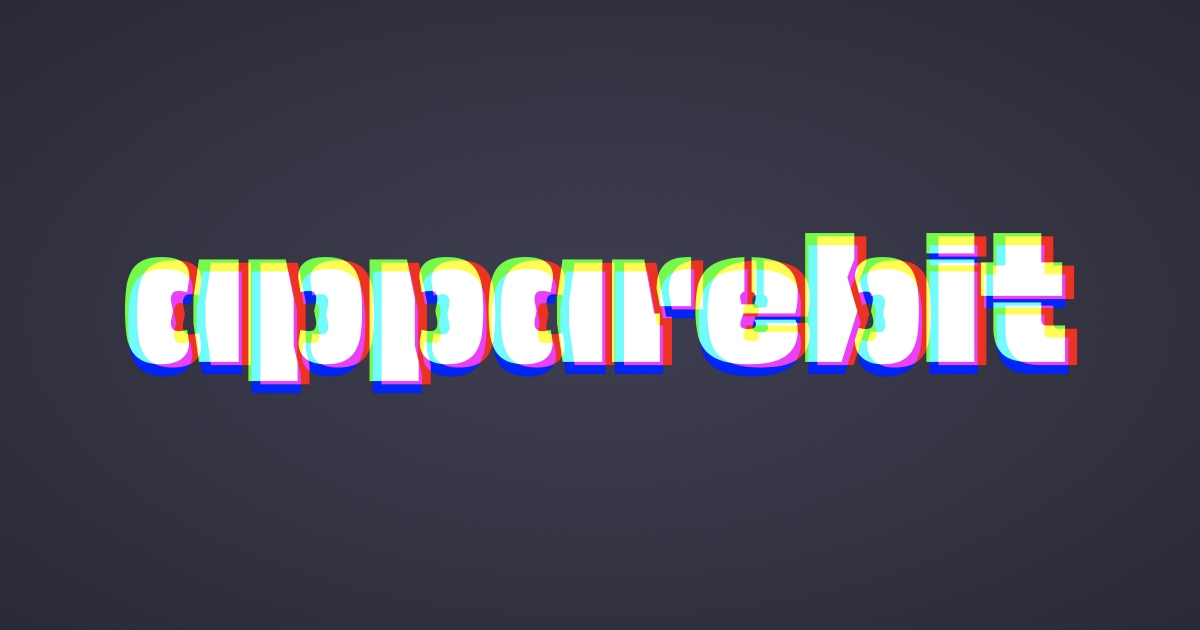
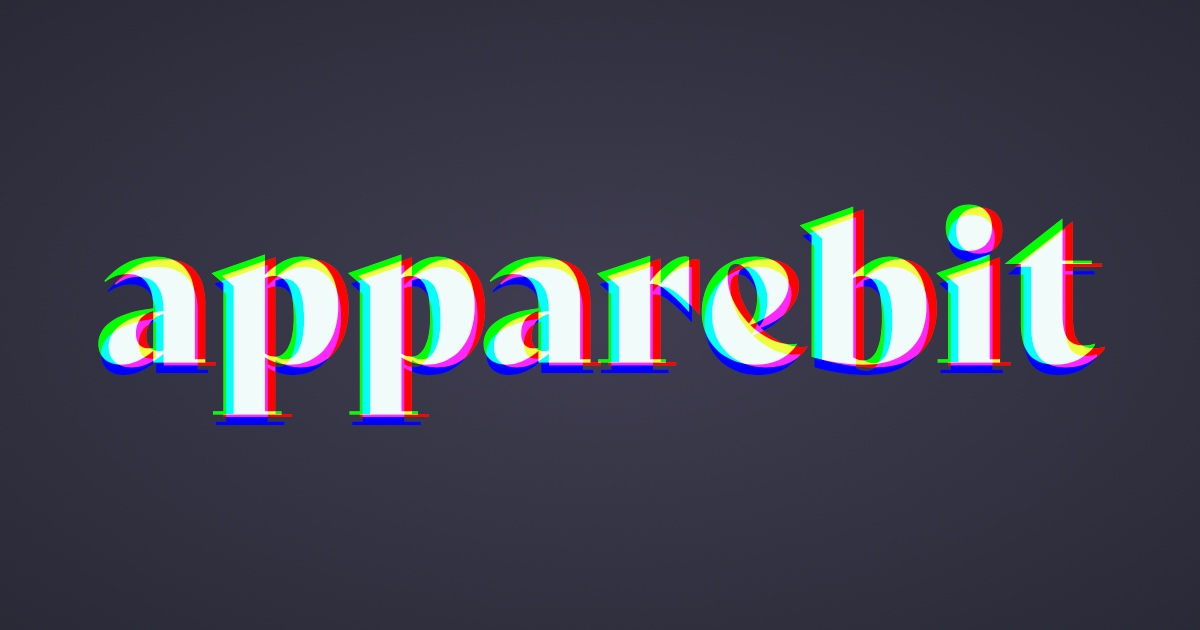
Simplify visual appearance, add "Technology Today" talk
* Replace the 'a' logo using Super Fat Bob with Bely Display.
* Similarly, replace the generic social network image's use of Super Fat Bob with Bely Display.
* Add Rebase/SPLASH 2020 talk on the technology industry as featured content.

Changed region(s): [[0.0617, 0.3016, 0.925, 0.6937]]

diff --git a/content/index.html b/content/index.html
@@ -55,13 +55,14 @@ main > section:first-of-type > div:first-of-type { margin-bottom: var(--s10); }
 .hello, .hello2 { font-family: var(--bely-display-fontstack); }
 .hello { font-size: var(--s20); line-height: 1; }
 .hello2 { font-size: var(--s05); line-height: calc(var(--r-minor)  * 1rem); }
-.card:nth-of-type(1) > .image > img {
+
+.card:nth-of-type(2) > .image > img {
   object-position: 50% 100%;
 }
-.card:nth-of-type(2) > .image > img {
+.card:nth-of-type(3) > .image > img {
   object-position: 75% 0%;
 }
-.card:nth-of-type(2) > h3 > a > span {
+.card:nth-of-type(3) > h3 > a > span {
   transform: rotate(-14deg) translateY(-0.4em) translateX(-0.4em);
 }
 </style>
@@ -71,7 +72,7 @@ main > section:first-of-type > div:first-of-type { margin-bottom: var(--s10); }
 <nav class="page-header barred">
 <div>
 <a rel=home class=stylish href="/">
-<svg aria-hidden=true viewBox="18 22 60 57" width="25.2" height="25.2"><path d="M51 60c-8 2-10-1-9-5l1-5-1-4c-1-5 1-8 9-6l1-6c1-10-8-12-14-12h-1c-16 0-19 10-19 28s3 29 19 29h1c7 0 15-4 14-13l-1-6zm3-3l3 20h21V23H57l-3 20v14z"/></svg>
+<svg aria-hidden="true" viewBox="0 0 100 100"><path d="M88.1 93.6V41.8c0-27-12.5-40.5-36-40.5C33.4 1.3 19.5 8.9 6.8 23l1 1A31 31 0 0128.2 17c14.2 0 22.4 10.3 22.4 30.8-31 3.4-49.3 14.8-49.3 32 0 11.8 8.2 18.7 20.4 18.7 10.2 0 20.2-5 29-12.5v10.6h46.7v-3H88zM46.4 84c-7.4 0-11.2-4.7-11.2-13.4 0-10 4.3-17 15.5-20.2v33c-1.6.4-3.1.6-4.3.6z"/></svg>
 <span class=invisible>Home</span>
 </a>
 </div>
@@ -96,10 +97,10 @@ main > section:first-of-type > div:first-of-type { margin-bottom: var(--s10); }
 </figure>
 
 <p>Welcome to <a class="u-url u-uid" href="https://apparebit.com">Apparebit</a>!
-I am <span class=p-name>Robert Grimm</span>, a <span class=p-job-title>software
-engineer</span> currently looking for a new position and living in <span
-class=p-locality>Brooklyn</span>, <abbr class=p-region>NY</abbr>. This is my
-personal website.</p>
+I am <span class=p-name>Robert Grimm</span>. I live in <span
+class=p-locality>Brooklyn</span>, <abbr class=p-region>NY</abbr> and work as a
+<span class=p-job-title>software engineer</span> at <a class="p-org"
+href="https://valon.com">Valon</a>. This is my personal website.</p>
 
 <p>Given a professional career spanning both academic computer science and
 industrial software engineering, technology is an important topic here. Having
@@ -134,16 +135,30 @@ class=hello2>Hello</span></a>, too!</p>
     {
       "@type": "ListItem",
       "position": 1,
-      "url": "https://apparebit.com/features/do-you-be"
+      "url": "https://youtu.be/iYJQSfQGDEE"
     },
     {
       "@type": "ListItem",
       "position": 2,
+      "url": "https://apparebit.com/features/do-you-be"
+    },
+    {
+      "@type": "ListItem",
+      "position": 3,
       "url": "https://apparebit.com/features/ubu-trump"
     }
   ]
 }
 </script>
+
+<!-- ~~~~~~~~~~~~~~~~~~~~~~~~~~~ Technology Today ~~~~~~~~~~~~~~~~~~~~~~~~~~ -->
+<li class=card>
+<h3><a class=stylish href="https://youtu.be/iYJQSfQGDEE"></a></h3>
+<div class=image>
+  <img src="assets/images/technology-today.svg" alt="Technology Today: A Paucity of Integrity and Imagination — an apocalypse by Robert Grimm presented at Rebase/SPLASH 2020">
+</div>
+<p class=description>The globally toxic impact of Mark Zuckerberg</p>
+</li>
 
 <!-- ~~~~~~~~~~~~~~~~~~~~~~~~~~~~~~ Do You Be ~~~~~~~~~~~~~~~~~~~~~~~~~~~~~~ -->
 <li class=card>

diff --git a/content/features/do-you-be/index.html b/content/features/do-you-be/index.html
@@ -125,7 +125,7 @@ nav {
 <nav class="page-header cornered">
 <div>
 <a rel=home class=stylish href="/">
-<svg aria-hidden=true viewBox="18 22 60 57" width="25.2" height="25.2"><path d="M51 60c-8 2-10-1-9-5l1-5-1-4c-1-5 1-8 9-6l1-6c1-10-8-12-14-12h-1c-16 0-19 10-19 28s3 29 19 29h1c7 0 15-4 14-13l-1-6zm3-3l3 20h21V23H57l-3 20v14z"/></svg>
+<svg aria-hidden="true" viewBox="0 0 100 100"><path d="M88.1 93.6V41.8c0-27-12.5-40.5-36-40.5C33.4 1.3 19.5 8.9 6.8 23l1 1A31 31 0 0128.2 17c14.2 0 22.4 10.3 22.4 30.8-31 3.4-49.3 14.8-49.3 32 0 11.8 8.2 18.7 20.4 18.7 10.2 0 20.2-5 29-12.5v10.6h46.7v-3H88zM46.4 84c-7.4 0-11.2-4.7-11.2-13.4 0-10 4.3-17 15.5-20.2v33c-1.6.4-3.1.6-4.3.6z"/></svg>
 <span class=invisible>Home</span>
 </a>
 </div>

diff --git a/content/features/ubu-trump/index.html b/content/features/ubu-trump/index.html
@@ -116,7 +116,7 @@ nav {
 <nav class="page-header cornered">
 <div>
 <a rel=home class=stylish href="/">
-<svg aria-hidden=true viewBox="18 22 60 57" width="25.2" height="25.2"><path d="M51 60c-8 2-10-1-9-5l1-5-1-4c-1-5 1-8 9-6l1-6c1-10-8-12-14-12h-1c-16 0-19 10-19 28s3 29 19 29h1c7 0 15-4 14-13l-1-6zm3-3l3 20h21V23H57l-3 20v14z"/></svg>
+<svg aria-hidden="true" viewBox="0 0 100 100"><path d="M88.1 93.6V41.8c0-27-12.5-40.5-36-40.5C33.4 1.3 19.5 8.9 6.8 23l1 1A31 31 0 0128.2 17c14.2 0 22.4 10.3 22.4 30.8-31 3.4-49.3 14.8-49.3 32 0 11.8 8.2 18.7 20.4 18.7 10.2 0 20.2-5 29-12.5v10.6h46.7v-3H88zM46.4 84c-7.4 0-11.2-4.7-11.2-13.4 0-10 4.3-17 15.5-20.2v33c-1.6.4-3.1.6-4.3.6z"/></svg>
 <span class=invisible>Home</span>
 </a>
 </div>

diff --git a/content/403.html b/content/403.html
@@ -40,7 +40,7 @@
 <nav class="page-header barred">
 <div>
 <a rel=home class=stylish href="/">
-<svg aria-hidden=true viewBox="18 22 60 57" width="25.2" height="25.2"><path d="M51 60c-8 2-10-1-9-5l1-5-1-4c-1-5 1-8 9-6l1-6c1-10-8-12-14-12h-1c-16 0-19 10-19 28s3 29 19 29h1c7 0 15-4 14-13l-1-6zm3-3l3 20h21V23H57l-3 20v14z"/></svg>
+<svg aria-hidden="true" viewBox="0 0 100 100"><path d="M88.1 93.6V41.8c0-27-12.5-40.5-36-40.5C33.4 1.3 19.5 8.9 6.8 23l1 1A31 31 0 0128.2 17c14.2 0 22.4 10.3 22.4 30.8-31 3.4-49.3 14.8-49.3 32 0 11.8 8.2 18.7 20.4 18.7 10.2 0 20.2-5 29-12.5v10.6h46.7v-3H88zM46.4 84c-7.4 0-11.2-4.7-11.2-13.4 0-10 4.3-17 15.5-20.2v33c-1.6.4-3.1.6-4.3.6z"/></svg>
 <span class=invisible>Home</span>
 </a>
 </div>

diff --git a/content/404.html b/content/404.html
@@ -40,7 +40,7 @@
 <nav class="page-header barred">
 <div>
 <a rel=home class=stylish href="/">
-<svg aria-hidden=true viewBox="18 22 60 57" width="25.2" height="25.2"><path d="M51 60c-8 2-10-1-9-5l1-5-1-4c-1-5 1-8 9-6l1-6c1-10-8-12-14-12h-1c-16 0-19 10-19 28s3 29 19 29h1c7 0 15-4 14-13l-1-6zm3-3l3 20h21V23H57l-3 20v14z"/></svg>
+<svg aria-hidden="true" viewBox="0 0 100 100"><path d="M88.1 93.6V41.8c0-27-12.5-40.5-36-40.5C33.4 1.3 19.5 8.9 6.8 23l1 1A31 31 0 0128.2 17c14.2 0 22.4 10.3 22.4 30.8-31 3.4-49.3 14.8-49.3 32 0 11.8 8.2 18.7 20.4 18.7 10.2 0 20.2-5 29-12.5v10.6h46.7v-3H88zM46.4 84c-7.4 0-11.2-4.7-11.2-13.4 0-10 4.3-17 15.5-20.2v33c-1.6.4-3.1.6-4.3.6z"/></svg>
 <span class=invisible>Home</span>
 </a>
 </div>

diff --git a/content/about/apparebit.html b/content/about/apparebit.html
@@ -39,7 +39,7 @@
 <nav class="page-header barred">
 <div>
 <a rel=home class=stylish href="/">
-<svg aria-hidden=true viewBox="18 22 60 57" width="25.2" height="25.2"><path d="M51 60c-8 2-10-1-9-5l1-5-1-4c-1-5 1-8 9-6l1-6c1-10-8-12-14-12h-1c-16 0-19 10-19 28s3 29 19 29h1c7 0 15-4 14-13l-1-6zm3-3l3 20h21V23H57l-3 20v14z"/></svg>
+<svg aria-hidden="true" viewBox="0 0 100 100"><path d="M88.1 93.6V41.8c0-27-12.5-40.5-36-40.5C33.4 1.3 19.5 8.9 6.8 23l1 1A31 31 0 0128.2 17c14.2 0 22.4 10.3 22.4 30.8-31 3.4-49.3 14.8-49.3 32 0 11.8 8.2 18.7 20.4 18.7 10.2 0 20.2-5 29-12.5v10.6h46.7v-3H88zM46.4 84c-7.4 0-11.2-4.7-11.2-13.4 0-10 4.3-17 15.5-20.2v33c-1.6.4-3.1.6-4.3.6z"/></svg>
 <span class=invisible>Home</span>
 </a>
 </div>

diff --git a/content/about/privacy.html b/content/about/privacy.html
@@ -39,7 +39,7 @@
 <nav class="page-header barred">
 <div>
 <a rel=home class=stylish href="/">
-<svg aria-hidden=true viewBox="18 22 60 57" width="25.2" height="25.2"><path d="M51 60c-8 2-10-1-9-5l1-5-1-4c-1-5 1-8 9-6l1-6c1-10-8-12-14-12h-1c-16 0-19 10-19 28s3 29 19 29h1c7 0 15-4 14-13l-1-6zm3-3l3 20h21V23H57l-3 20v14z"/></svg>
+<svg aria-hidden="true" viewBox="0 0 100 100"><path d="M88.1 93.6V41.8c0-27-12.5-40.5-36-40.5C33.4 1.3 19.5 8.9 6.8 23l1 1A31 31 0 0128.2 17c14.2 0 22.4 10.3 22.4 30.8-31 3.4-49.3 14.8-49.3 32 0 11.8 8.2 18.7 20.4 18.7 10.2 0 20.2-5 29-12.5v10.6h46.7v-3H88zM46.4 84c-7.4 0-11.2-4.7-11.2-13.4 0-10 4.3-17 15.5-20.2v33c-1.6.4-3.1.6-4.3.6z"/></svg>
 <span class=invisible>Home</span>
 </a>
 </div>

diff --git a/content/assets/form.css b/content/assets/form.css
@@ -865,6 +865,11 @@ address {
   line-height: 1;
 }
 
+/* Raise embedded links above the cardwide default link */
+.card > .description a {
+  position: relative;
+}
+
 /* -------------------------------------------------------------------------- *
  * .cover
  * -------------------------------------------------------------------------- */
@@ -1309,14 +1314,14 @@ main {
 
 .page-header a {
   display: block;
-  padding: calc((var(--s20) - var(--s05)) / 2);
+  padding: calc((var(--s20) - var(--s10)) / 2);
   text-decoration: none;
   outline: none;
 }
 
 .page-header svg {
-  height: var(--s05);
-  width: var(--s05);
+  height: var(--s10);
+  width: var(--s10);
 }
 
 .page-header.barred {
